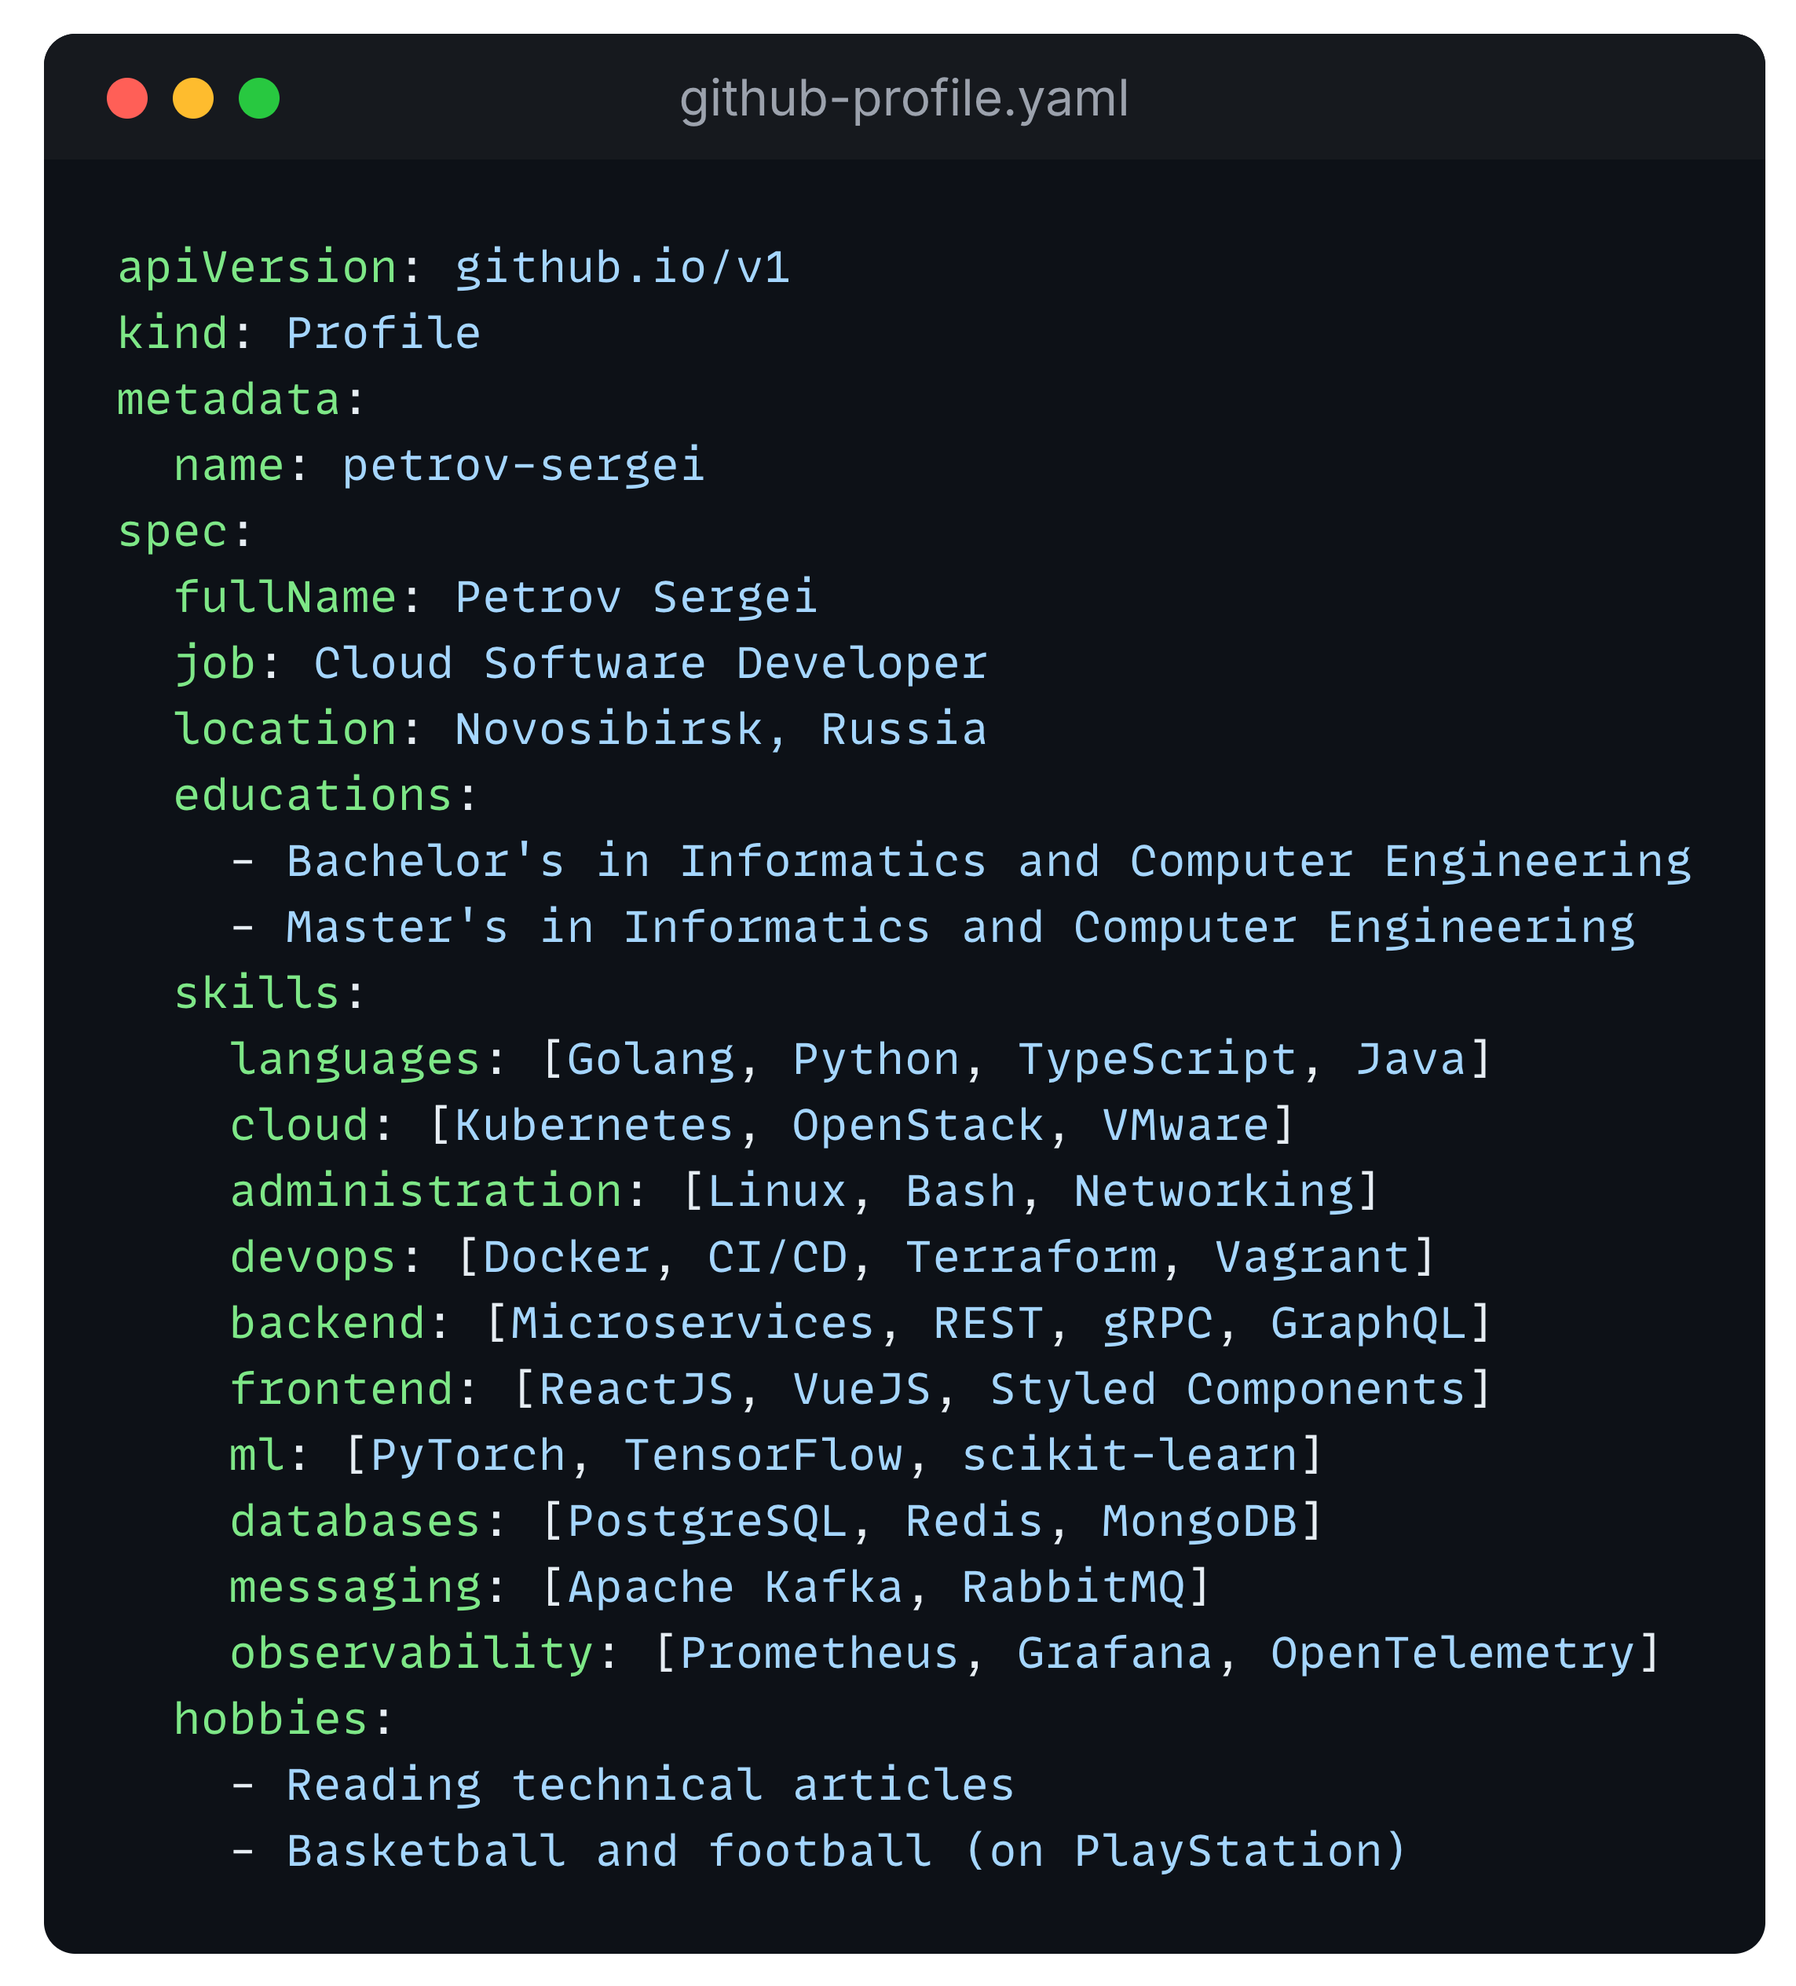
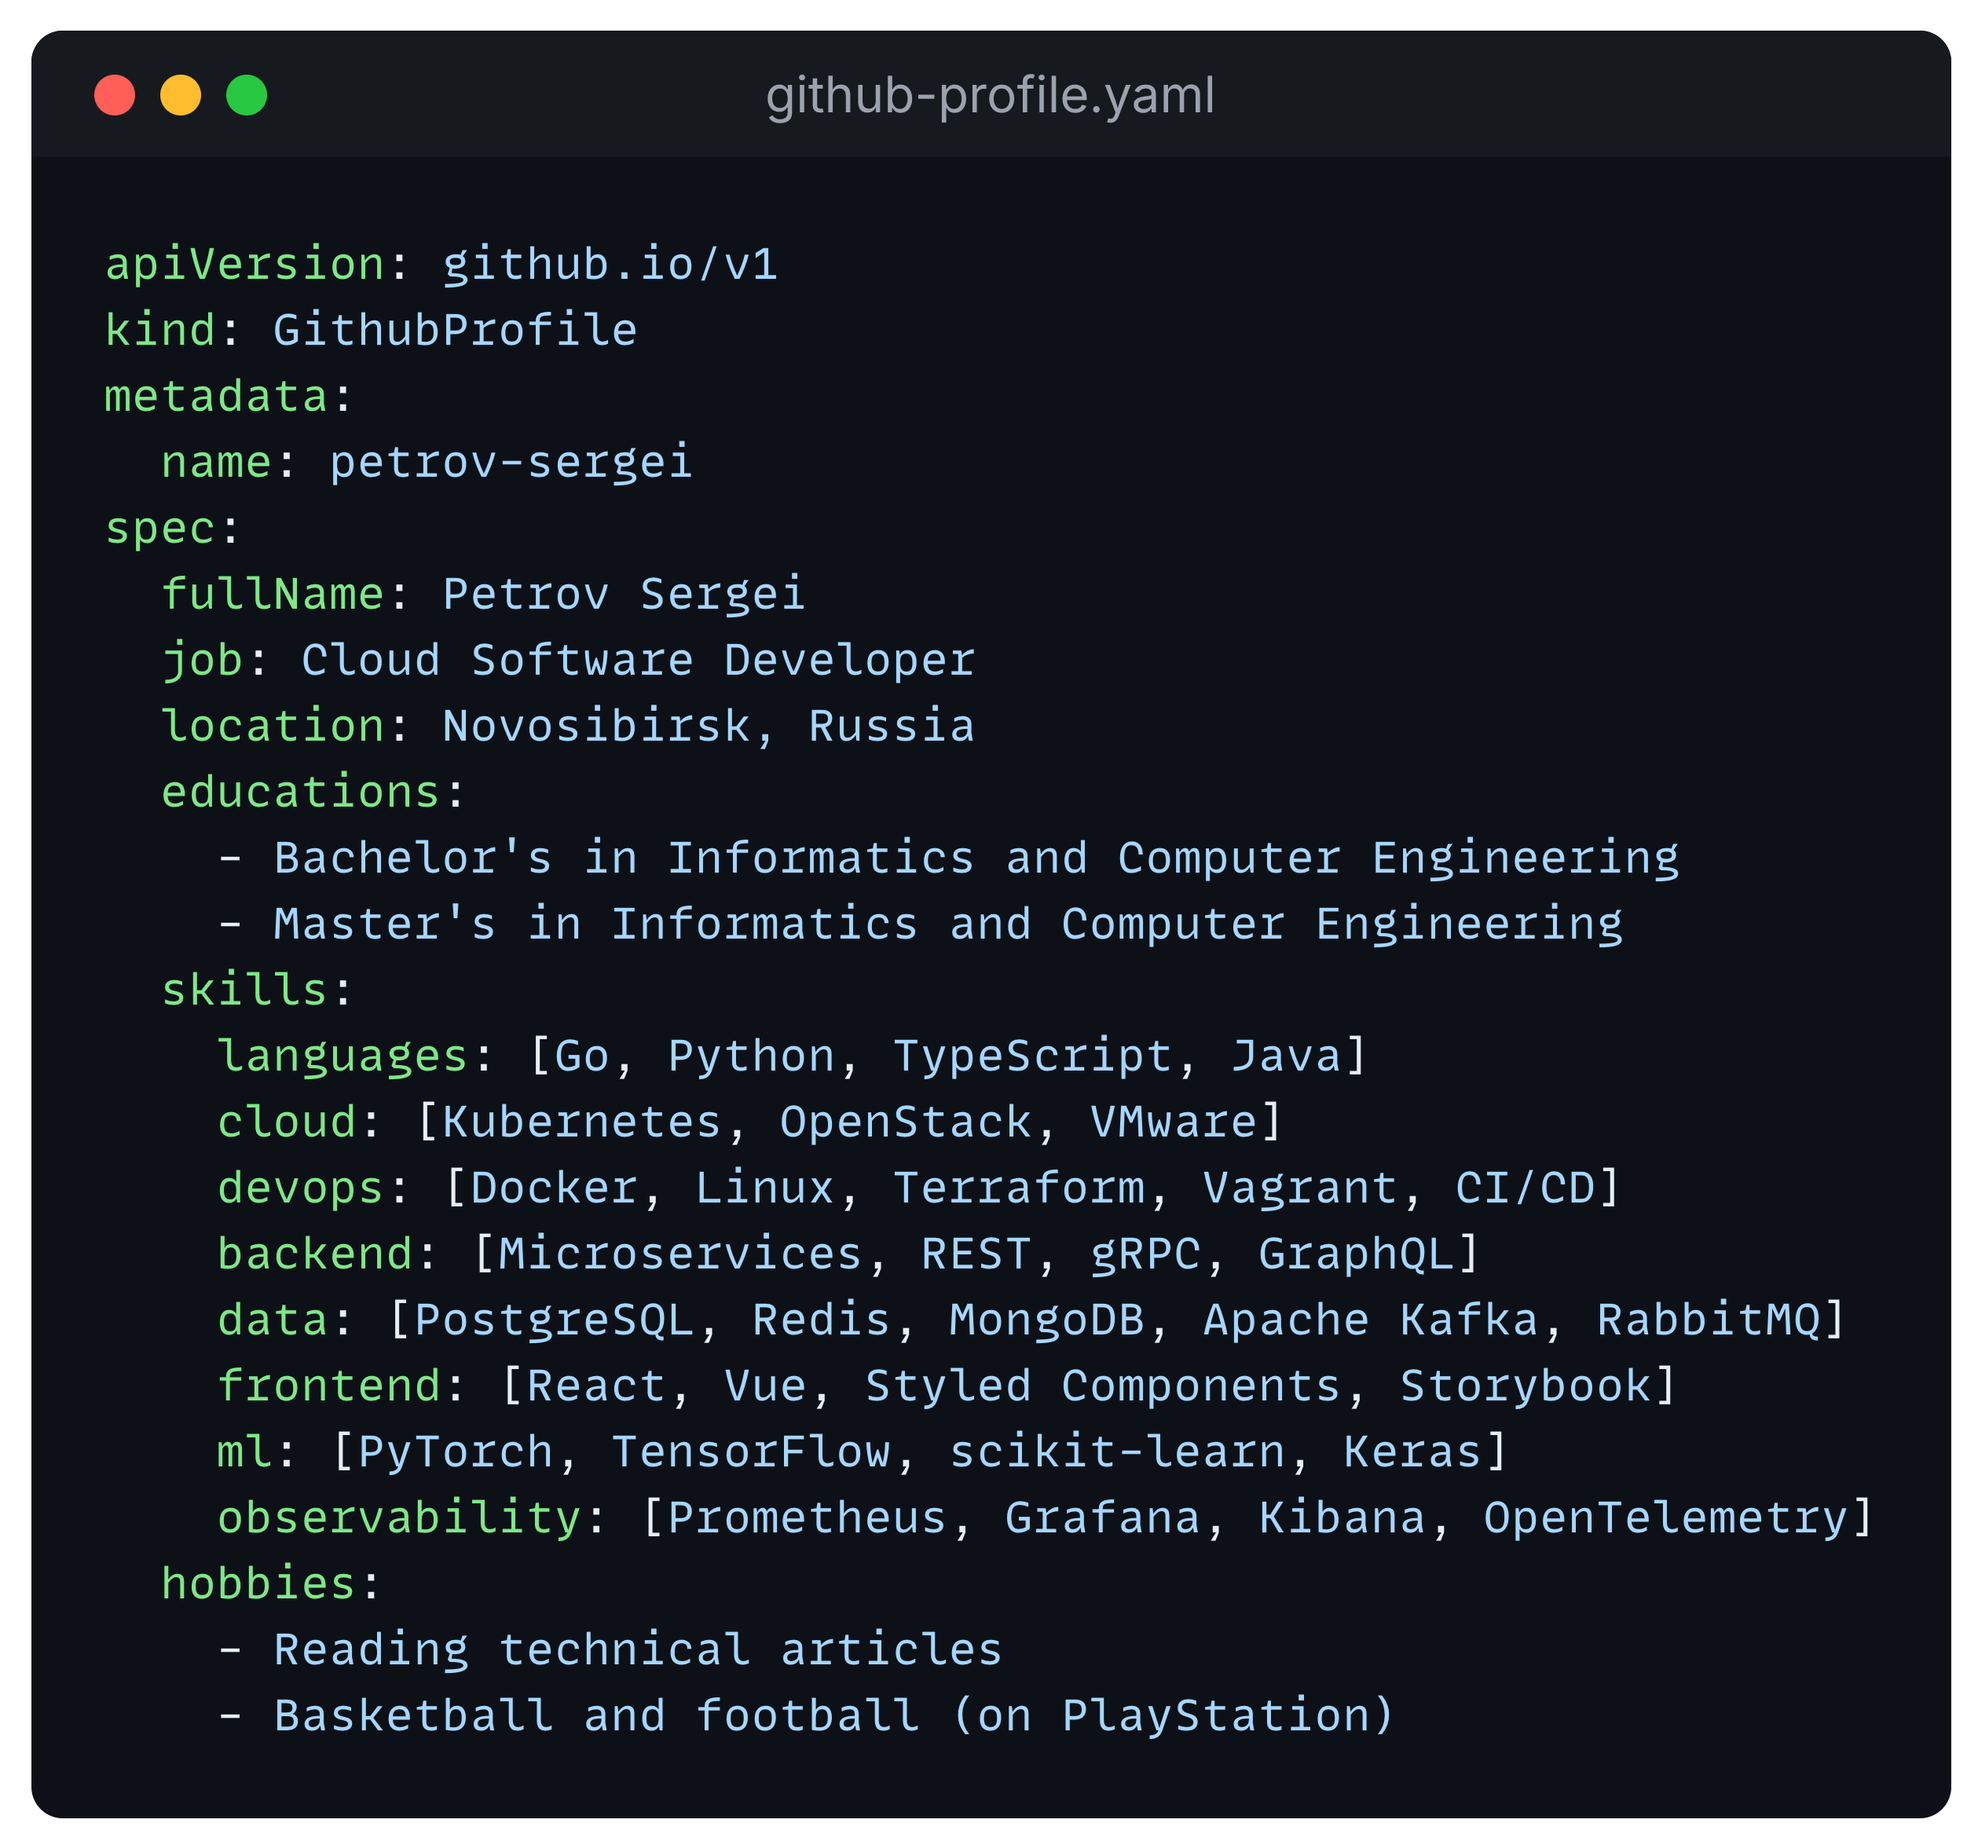
Update README.md

diff --git a/README.md b/README.md
@@ -6,7 +6,7 @@
 
 <!---
 apiVersion: github.io/v1
-kind: Profile
+kind: GithubProfile
 metadata:
   name: petrov-sergei
 spec:
@@ -17,16 +17,14 @@ spec:
     - Bachelor's in Informatics and Computer Engineering
     - Master's in Informatics and Computer Engineering
   skills:
-    languages: [Golang, Python, TypeScript, Java]
+    languages: [Go, Python, TypeScript, Java]
     cloud: [Kubernetes, OpenStack, VMware]
-    administration: [Linux, Bash, Networking]
-    devops: [Docker, CI/CD, Terraform]
+    devops: [Docker, Linux, Terraform, Vagrant, CI/CD]
     backend: [Microservices, REST, gRPC, GraphQL]
-    frontend: [ReactJS, VueJS, Styled Components]
-    ml: [PyTorch, TensorFlow, scikit-learn]
-    databases: [PostgreSQL, Redis, MongoDB]
-    messaging: [Apache Kafka, RabbitMQ]
-    observability: [Prometheus, Grafana, OpenTelemetry]
+    data: [PostgreSQL, Redis, MongoDB, Apache Kafka, RabbitMQ]
+    frontend: [React, Vue, Styled Components, Storybook]
+    ml: [PyTorch, TensorFlow, scikit-learn, Keras]
+    observability: [Prometheus, Grafana, Kibana, OpenTelemetry]
   hobbies:
     - Reading technical articles
     - Basketball and football (on PlayStation)
